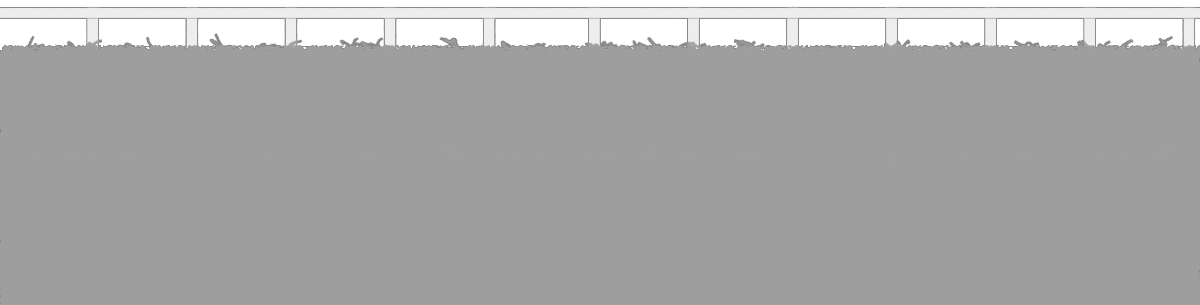
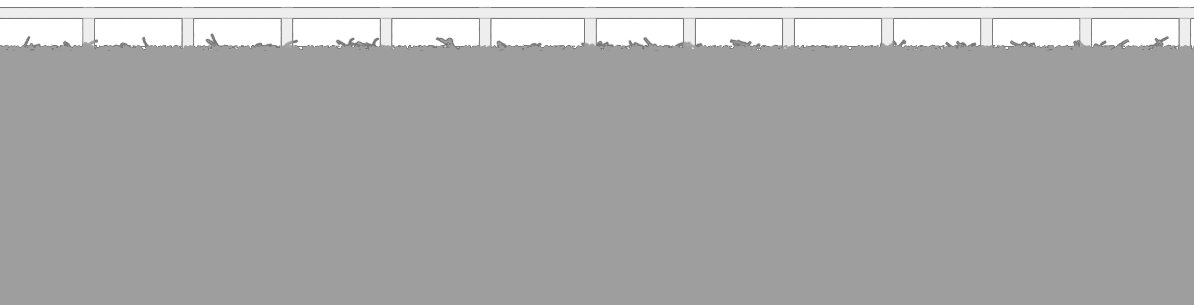
말 속도따라 배경 속도 구현

diff --git a/horse.py b/horse.py
@@ -6,7 +6,6 @@ from sdl2 import SDL_KEYDOWN, SDLK_UP, SDLK_DOWN, SDL_KEYUP, SDLK_SPACE
 import game_world
 import game_framework
 
-
 # state event check
 # ( state event type, event value )
 
@@ -65,18 +64,15 @@ class Idle:
 
     @staticmethod
     def draw(horse):
-        if horse.frame // 4 == 1:
-            horse.action += 1
-
         horse.image.clip_draw(int(horse.frame) * horse.w, horse.action * horse.h, horse.w, horse.h,
                               horse.x, horse.y, horse.w * 1.5, horse.h * 1.5)
         pass
 
 
 class Run:
-
     @staticmethod
     def enter(horse, e):
+        horse.speed = 3
         pass
 
     @staticmethod
@@ -85,6 +81,8 @@ class Run:
 
     @staticmethod
     def do(horse):
+        horse.frame = (horse.frame + FRAMES_PER_ACTION * ACTION_PER_TIME * game_framework.frame_time) % 4
+
         pass
 
     @staticmethod
@@ -102,6 +100,7 @@ class Jump:
     def enter(horse, e):
         print("jump")
         horse.jump_dest = 200
+        horse.speed = 1.5
         pass
 
     @staticmethod
@@ -110,6 +109,8 @@ class Jump:
 
     @staticmethod
     def do(horse):
+        horse.frame = (horse.frame + FRAMES_PER_ACTION * ACTION_PER_TIME * game_framework.frame_time) % 4
+
         if horse.jump_dist < 0 and horse.y <= 120:
             horse.jump_dist = -horse.jump_dist
             horse.jump_cnt = 0
@@ -121,7 +122,7 @@ class Jump:
         horse.y += horse.jump_dist
         if horse.y >= horse.jump_dest:
             horse.jump_dist = -horse.jump_dist
-        horse.image.clip_draw(int(horse.frame) * horse.w, horse.action * horse.h, horse.w, horse.h,
+        horse.image.clip_draw(int(horse.jump_frame) * horse.w, horse.action * horse.h, horse.w, horse.h,
                               horse.x, horse.y, horse.w * 1.5, horse.h * 1.5)
         pass
 
@@ -138,6 +139,8 @@ class JumpJump:
 
     @staticmethod
     def do(horse):
+        horse.frame = (horse.frame + FRAMES_PER_ACTION * ACTION_PER_TIME * game_framework.frame_time) % 4
+
         if horse.jump_dist < 0 and horse.y <= 120:
             horse.jump_dist = -horse.jump_dist
             horse.jump_cnt = 0
@@ -149,7 +152,7 @@ class JumpJump:
         horse.y += horse.jump_dist
         if horse.y >= horse.jump_dest:
             horse.jump_dist = -horse.jump_dist
-        horse.image.clip_draw(int(horse.frame) * horse.w, horse.action * horse.h, horse.w, horse.h,
+        horse.image.clip_draw(int(horse.jump_frame) * horse.w, horse.action * horse.h, horse.w, horse.h,
                               horse.x, horse.y, horse.w * 1.5, horse.h * 1.5)
         pass
 
@@ -171,10 +174,6 @@ class StateMachine:
 
     def update(self):
         self.cur_state.do(self.horse)
-
-        self.horse.frame = (self.horse.frame + FRAMES_PER_ACTION * ACTION_PER_TIME * game_framework.frame_time) % 4
-        # self.horse.x += self.horse.speed * game_framework.frame_time
-        # self.horse.y += self.horse.speed * game_framework.frame_time
 
     def handle_event(self, e):
         for check_event, next_state in self.transitions[self.cur_state].items():
@@ -200,11 +199,11 @@ class Horse:
         self.action = 0
         self.state_machine = StateMachine(self)
         self.state_machine.start()
-        self.speed = 0
-
         self.jump_cnt = 0
         self.jump_dist = 0.5
         self.jump_dest = 200
+        self.jump_frame = 0
+        self.speed = 0
 
     def update(self):
         self.state_machine.update()
@@ -214,3 +213,4 @@ class Horse:
 
     def draw(self):
         self.state_machine.draw()
+

diff --git a/play_mode.py b/play_mode.py
@@ -2,6 +2,8 @@ from pico2d import *
 import game_framework
 
 import game_world
+import server
+from cloud import Cloud
 from grass import Grass
 from horse import Horse
 
@@ -14,23 +16,25 @@ def handle_events():
         elif event.type == SDL_KEYDOWN and event.key == SDLK_ESCAPE:
             game_framework.quit()
         else:
-            horse.handle_event(event)
+            server.horse.handle_event(event)
 
 
 def init():
-    global grass_list
-    global horse
     global image
     running = True
 
     image = load_image('background.PNG')
 
+    cloud_list = [Cloud() for _ in range(2)]
+    for cloud in cloud_list:
+        game_world.add_object(cloud, 0)
+
     grass_list = [Grass() for _ in range(4)]
     for grass in grass_list:
-        game_world.add_object(grass, 0)
+        game_world.add_object(grass, 1)
 
-    horse = Horse()
-    game_world.add_object(horse, 1)
+    server.horse = Horse()
+    game_world.add_object(server.horse, 2)
 
 
 def finish():

diff --git a/cloud.py b/cloud.py
@@ -1,0 +1,28 @@
+import random
+
+from pico2d import *
+
+import server
+
+cloud_cnt = 0
+
+class Cloud:
+    def __init__(self):
+        global cloud_cnt
+        self.image = load_image('cloud.PNG')
+        self.cw = get_canvas_width()
+        self.ch = get_canvas_height()
+        self.w = self.image.w*1.5
+        self.h = self.image.h*1.5
+        self.x = self.cw//2 + cloud_cnt * self.w
+        self.y = 400
+        cloud_cnt += 1
+    def draw(self):
+        self.image.draw(self.x,self.y,self.w,self.h)
+
+    def update(self):
+        if self.x + self.w//2 <= 0:
+            self.x = self.cw//2 + self.w
+        self.x -= server.horse.speed * 0.4
+        # self.x -= 0.1*random.randint(4,8)
+        pass

diff --git a/grass.py b/grass.py
@@ -1,5 +1,8 @@
 from pico2d import *
 
+import server
+from horse import *
+
 grass_cnt = 0
 
 class Grass:
@@ -16,8 +19,7 @@ class Grass:
         self.image.draw(self.x,self.y,self.w,self.h)
 
     def update(self):
-        if self.x + self.w//2 < 0:
-            self.x = self.cw + self.w
-        self.x -= 1
-        # 말이 이동해야 하는 만큼 x 위치 이동
+        if self.x + self.w//2 <= 0:
+            self.x = self.cw//4 + (grass_cnt-1) * self.w
+        self.x -= server.horse.speed * 1
         pass

diff --git a/server.py b/server.py
@@ -1,0 +1,1 @@
+horse = None
